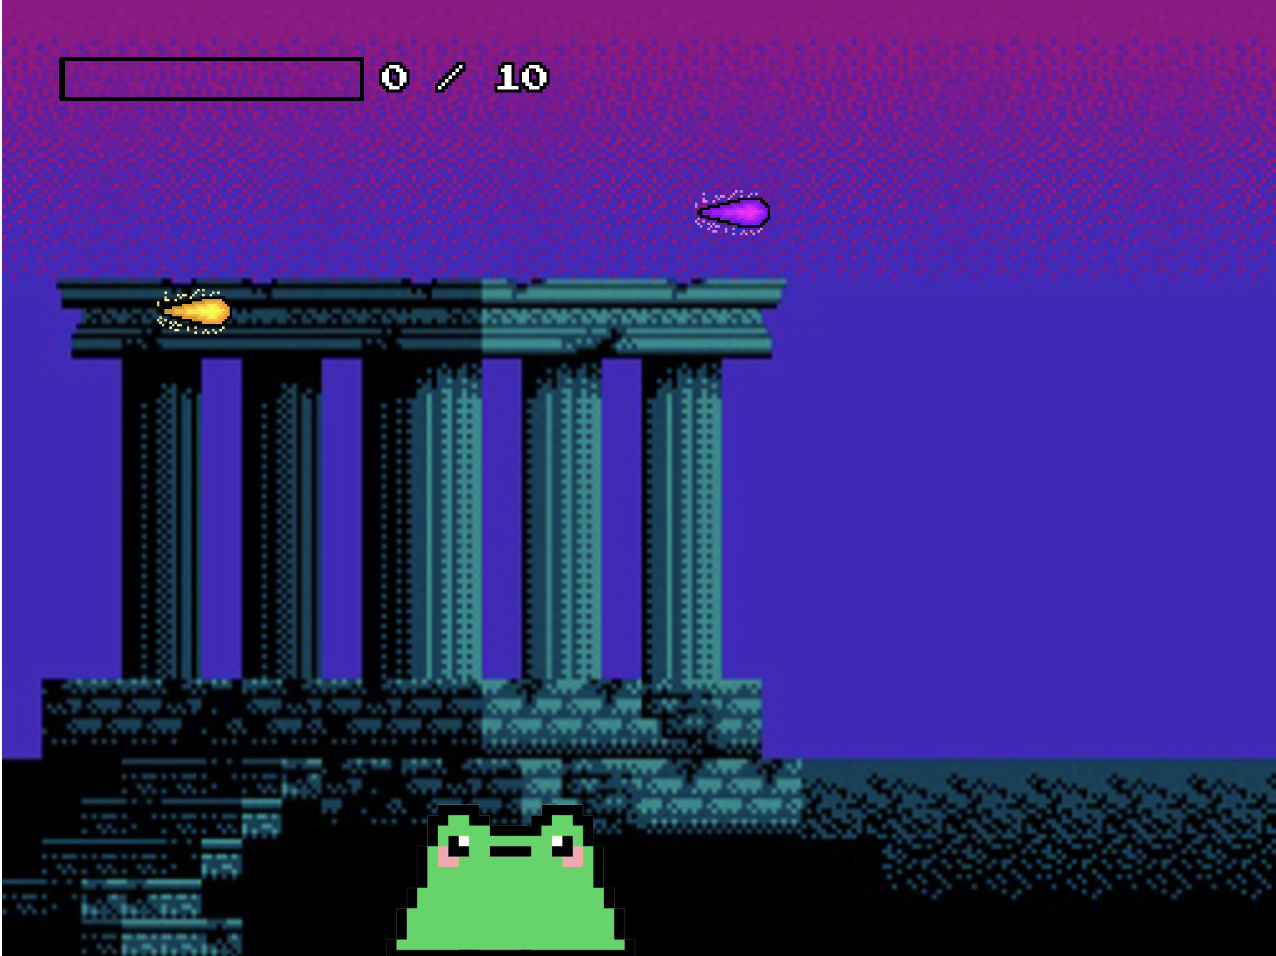
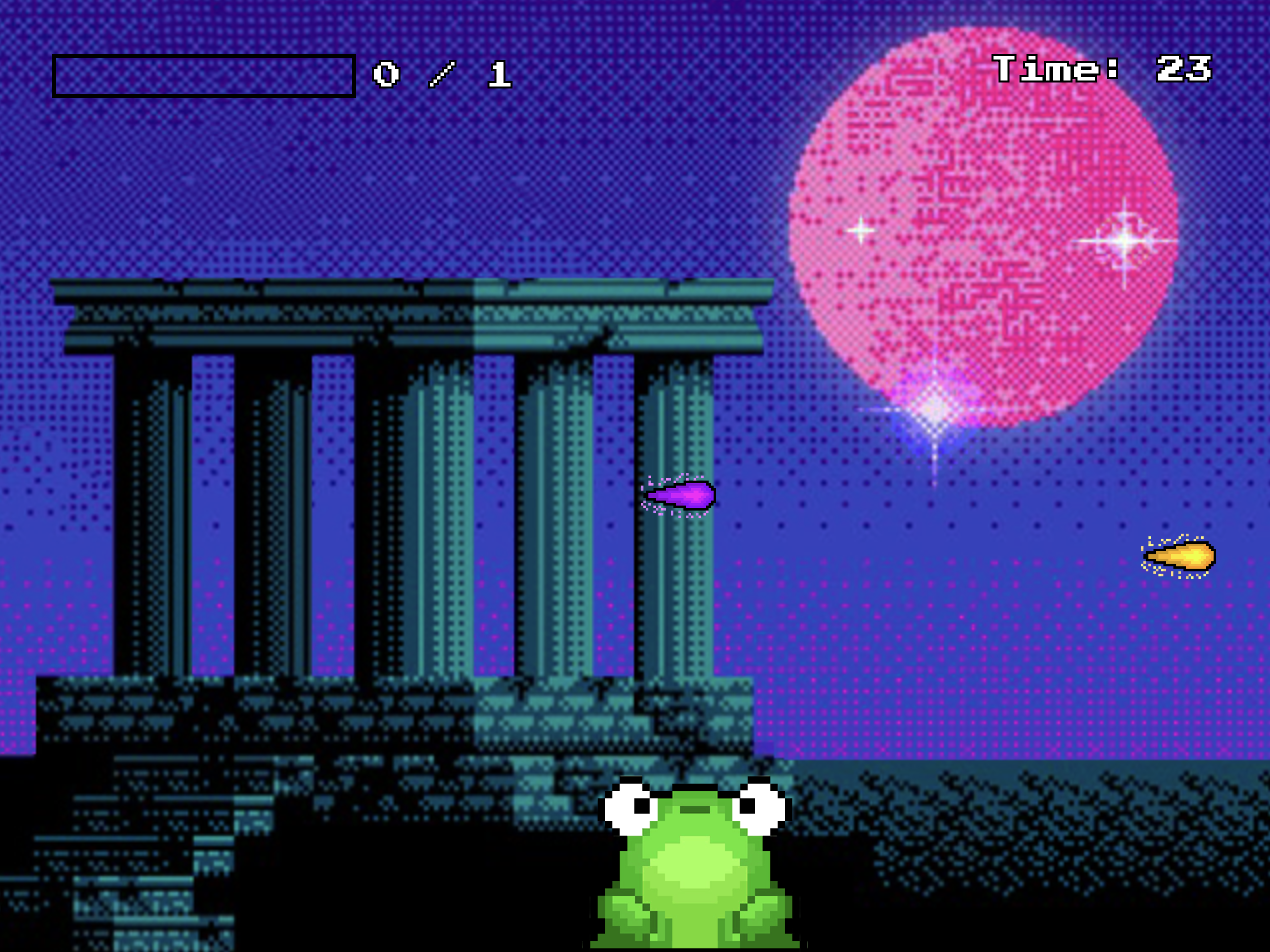
Final Tweaks
Added custom End game messages. Wrote the README.md

diff --git a/variation-jam/js/script.js b/variation-jam/js/script.js
@@ -54,6 +54,7 @@ let lovePoints = 0;
 let powerPoints = 0;
 //Adding End Game Message
 let endMessage = "";
+let endSubtitle = ""; // optional paragraph under main title of End Screens
 //Game Ends when you reach 10pts
 const maxPoints = 10;
 // Adding Greed Penalty to Fortune Mode//
@@ -172,7 +173,7 @@ function setup() {
         x: -50,
         baseY: random(100, height - 150),
         size: 40,
-        speed: 2,
+        speed: 4,
         angle: random(0, TWO_PI)   // for sin
     };
 
@@ -180,7 +181,7 @@ function setup() {
         x: width + 50,
         baseY: random(120, height - 120),
         size: 40,
-        speed: 3,
+        speed: 5,
         angle: random(0, TWO_PI)
     };
 }
@@ -341,14 +342,18 @@ function drawStartScreen() {
 }
 //DRAWING END SCREEN COMPONENTS-------------------------------------------------------------------------------------//
 function drawEndScreen() {
-    background("#000000ff");
+    background("#20006cff");
     textAlign(CENTER, CENTER);
-    textSize(30);
-    fill("#ffffffff");
+    textSize(25);
+    fill("#eaff00ff");
     text(endMessage, width / 2, height / 2);
-    textSize(12);
+    textSize(15);
+    fill("#ffffffff");
+    text(endSubtitle, width / 2, height / 2 + 60);
+    fill("#a781ffff");
+    textSize(10);
     // text ("message", width/2 (horizontal center, height/2 (vertical center)))
-    text("Press 'esc' to return to start screen", width / 2, height / 2 + 60);
+    text("Press 'esc' to return to start screen", width / 2, height / 2 + 200);
 }
 //DRAWING CHOOSE YOUR DESTINY SCREEN
 function drawChooseDestinyScreen() {
@@ -711,13 +716,15 @@ function checkOracleTongue() {
         frog.tongue.state = "inbound";
         if (wisdomPoints >= maxPoints) {
             gamemode = "end";
-            endMessage = "PROPHECY ACHIEVED!";
+            endMessage = "WISDOM ACQUIRED!"
+            endSubtitle = "Here is the prophecy: \nCamelia will get an amazing \ngrade on this project hehe";
         }
     }
 
     if (eatenPurple) {
         gamemode = "end";
         endMessage = "DESTINY FAILED!";
+        endSubtitle = "You have been misguided\nby the false prophecies!\n Gullibility becomes you. ";
         frog.tongue.state = "inbound";
     }
 }
@@ -745,6 +752,7 @@ function checkFortuneTongue() {
         if (fortunePoints >= maxPoints) {
             gamemode = "end";
             endMessage = "FORTUNE FAVOURS YOU!";
+            endSubtitle = "Oh great Chan Chu,\nyou truly bring fortune\nto those around you!";
         }
     }
 
@@ -806,6 +814,7 @@ function checkRebirthTongue() {
         if (vitalityPoints >= maxPoints) {
             gamemode = "end";
             endMessage = "LIFE CYCLE COMPLETED!";
+            endSubtitle = "You have completed your life's\npurpose! Hequet blesses you with \nascension to the afterlife";
         }
     }
 }
@@ -836,7 +845,8 @@ function checkFairytaleTongue() {
         // Optional: end game or max points check
         if (lovePoints >= maxPoints) {
             gamemode = "end";
-            endMessage = "LOVE TRIUMPHS!\nThe frog becomes human\nby true love's kiss.";
+            endMessage = "LOVE TRIUMPHS!";
+            endSubtitle = "You have found your true love,\nthrough a kiss you lift your curse\nand live happily ever after~";
         }
     }
     //Crown of Power
@@ -849,7 +859,8 @@ function checkFairytaleTongue() {
         frog.tongue.state = "inbound"; // retract tongue
         if (powerPoints >= maxPoints) {
             gamemode = "end";
-            endMessage = "POWER TRIUMPHS!\nThe frog rules the land!";
+            endMessage = "POWER TRIUMPHS!";
+            endSubtitle = "Your true love is Power & Influence.\nYou have found your place as king\nof the frogs & plan to take over\nthe swamp kingdom.";
         }
     }
 }
@@ -876,10 +887,12 @@ function updateTimer() {
 }
 //TIMER GAMEOVER MESSAGE
 function endGameTimeout() {
-    if (gamemode === "oracle") endMessage = "TIME'S UP! \nPROPHECY FAILED!";
-    else if (gamemode === "fortune") endMessage = "TIME'S UP! \nFORTUNE LOST!";
-    else if (gamemode === "rebirth") endMessage = "TIME'S UP! \n LIFE CYCLE FAILED!";
-    else if (gamemode === "fairytale") endMessage = "TIME'S UP! \nHAPPILY EVER AFTER\nNOT ACHIEVED!";
+    if (gamemode === "oracle") { endMessage = "TIME'S UP! \nPROPHECY FAILED!"; endSubtitle = ""; }
+    else if (gamemode === "fortune") {
+        endMessage = "TIME'S UP! \nFORTUNE LOST!"; endSubtitle = "";
+    }
+    else if (gamemode === "rebirth") { endMessage = "TIME'S UP! \n LIFE CYCLE FAILED!"; endSubtitle = ""; }
+    else if (gamemode === "fairytale") { endMessage = "TIME'S UP! \nHAPPILY EVER AFTER\nNOT ACHIEVED!"; endSubtitle = ""; }
 
     gamemode = "end";   // switch to end screen
 }

diff --git a/variation-jam/README.md b/variation-jam/README.md
@@ -26,19 +26,19 @@ different ending based on the frog’s priorities.
  - Click to launch the tongue
  - Catch object
 
-MY CONTRIBUTIONS TO THE CODE:
- - Added different game states: start, oracle, fortune, instructions, end.
- - Added title screen with clickable buttons to select game mode.
- - Added an instructions screen.
- - Added two game modes:
-    - Oracle Mode: Catch golden orbs, avoid purple orbs; scoring with wisdomPoints.
-    - Fortune Mode: Catch coins; greed penalty decreases fortunePoints if catching too fast.
- - Added ending screens with different messages per mode.
- - Added scoring bars with dynamic filling based on points.
- - Added multiple flying objects per mode with varying speeds and reset positions.
- - Replaced frog ellipse with frog image.
- - Added custom font and visual design for UI.
- - Added dynamic messages (greed penalty, end message).
+CHANGES MADE TO THE MOD JAM CODE:
+ - Added additional game states: choose your destiny, rebirth, fairytale, different ends.
+ - Changed the title screen to have only 2 clickable buttoms for better user interface: choose your... and instructions.
+ - Added a menu system: Choose your destiny before gameplay
+ - Added an extra instructions page with clickable next and previous arrows.
+ - Added multiple game endings based on performance and choices with custom messaging for each.
+ - Added two new game modes:
+    - Rebirth Mode: Catch nile blessings to increase your vitality points and make sure to avoir rebirth sigil to avoid resurrecting and restart the game.
+    - Fairy Tale Mode: Chose your destiny by catching either True Love's Kiss to gain love points or Crown of Power to gain power points.
+ - Added time constraints to all the game modes.
+ - Added custom scoring bars with dynamic filling based on points.
+ - Added different movement and combined them in certain game modes
+ - Improved visuals: new frog image, cohesive background and flyin objects designs.
  
 
 ## Screenshot(s)
@@ -46,6 +46,8 @@ MY CONTRIBUTIONS TO THE CODE:
 > ![Image of game start screen](./assets/images/startscreen_game.png)
 > ![Image of greek oracle game mode](./assets/images/oracle_game.png)
 > ![Image of chinese fortune game mode](./assets/images/fortune_game.png)
+> ![Image of egyptician rebirth game mode](./assets/images/rebirth_mode.png)
+> ![Image of western fairytale game mode](./assets/images/fairytale_mode.png)
 
 ## Attribution
 
@@ -54,14 +56,28 @@ MY CONTRIBUTIONS TO THE CODE:
 > - The background of the start screen was made by user3679043 from freepick.com: https://www.freepik.com/premium-vector/
 abstract-retro-pixel-art-80s-background-eps-10-vector-graphics_18568568.htm?epik=dj0yJnU9cklDOTBFUEtrbEdmNDZ6Q3lLWHl6XzZVYzRGWVdRdmcmcD0wJm49cTlVOG5fZnZBSVRoVUsyd3ZEcloxZyZ0PUFBQUFBR2tNSEVZ
 
-> - The background of the greek oracle mode was taken from tumblr: https://24.media.tumblr.com/tumblr_md0g8pEBPX1qbzzgco1_500.png
+> - The background of the different modes was taken from pinterest: https://uk.pinterest.com/pin/758152918542245462/ 
 
-> - The background of the chinese fortune mode was taken from pinterest: https://uk.pinterest.com/pin/758152918542245462/
+> - The acropolis of the greek oracle mode was taken from tumblr: https://24.media.tumblr.com/tumblr_md0g8pEBPX1qbzzgco1_500.png
+
+> - The castle of the chinese fortune mode was taken from vectorstock: https://www.vectorstock.com/royalty-free-vector/pixel-japanese-temple-detailed-isolated-vector-22763654
+
+> - The pyramids of the egyptian rebirth mode was taken from vecteezy: https://www.vecteezy.com/vector-art/13210962-pyramids-in-egypt-desert-8bit-pixel-background
+
+> - The castle of the western fairy tale mode was taken from reddit: https://www.reddit.com/r/PixelArt/comments/o63ysf/my_first_pixel_art_a_castle/
 
 > - The coins in the chinese fortune mode was downloaded from nicepng.com :https://www.nicepng.com/ourpic/u2w7a9e6r5r5i1y3_8-bit-mario-coin-mario-coin-pixel/
 
 > - The golden & purple prophecies from the greek oracle mode was made by the handsomeunicorn from thehandsomeunicorn.itch.io :https://handsomeunicorn.itch.io/fireball-sprite
 
-> - The crown from the western fairytale mode was made by the Dino Pixel from dinopixel.com :https://dinopixel.com/crown-pixel-art-29971
+> - The Rebirth Sigil from the Egyptian Rebirth mode was made by the Dino Pixel from dinopixel.com :https://dinopixel.com/ankh-pixel-art-20029
+
+> - The Nile Blessings from the Egyptian Rebirth mode was made by the Hooded Edge from streangriddb.com :https://www.steamgriddb.com/icon/45822ankh-pixel-art-20029
+
+> - The True Love's Kiss from the Western Fairy Tale mode was found on Pinterest :https://mx.pinterest.com/pin/117938083984075257/
+
+> - The Crown from the Western Fairy Tale mode was made by the Dino Pixel from dinopixel.com :https://dinopixel.com/crown-pixel-art-29971
+
+> - A lot of the code was referrenced or taken from https://p5js.org
 
 > - A lot of the code was taken or inspired by Pippin Barr from https://pippinbarr.com/cart253
